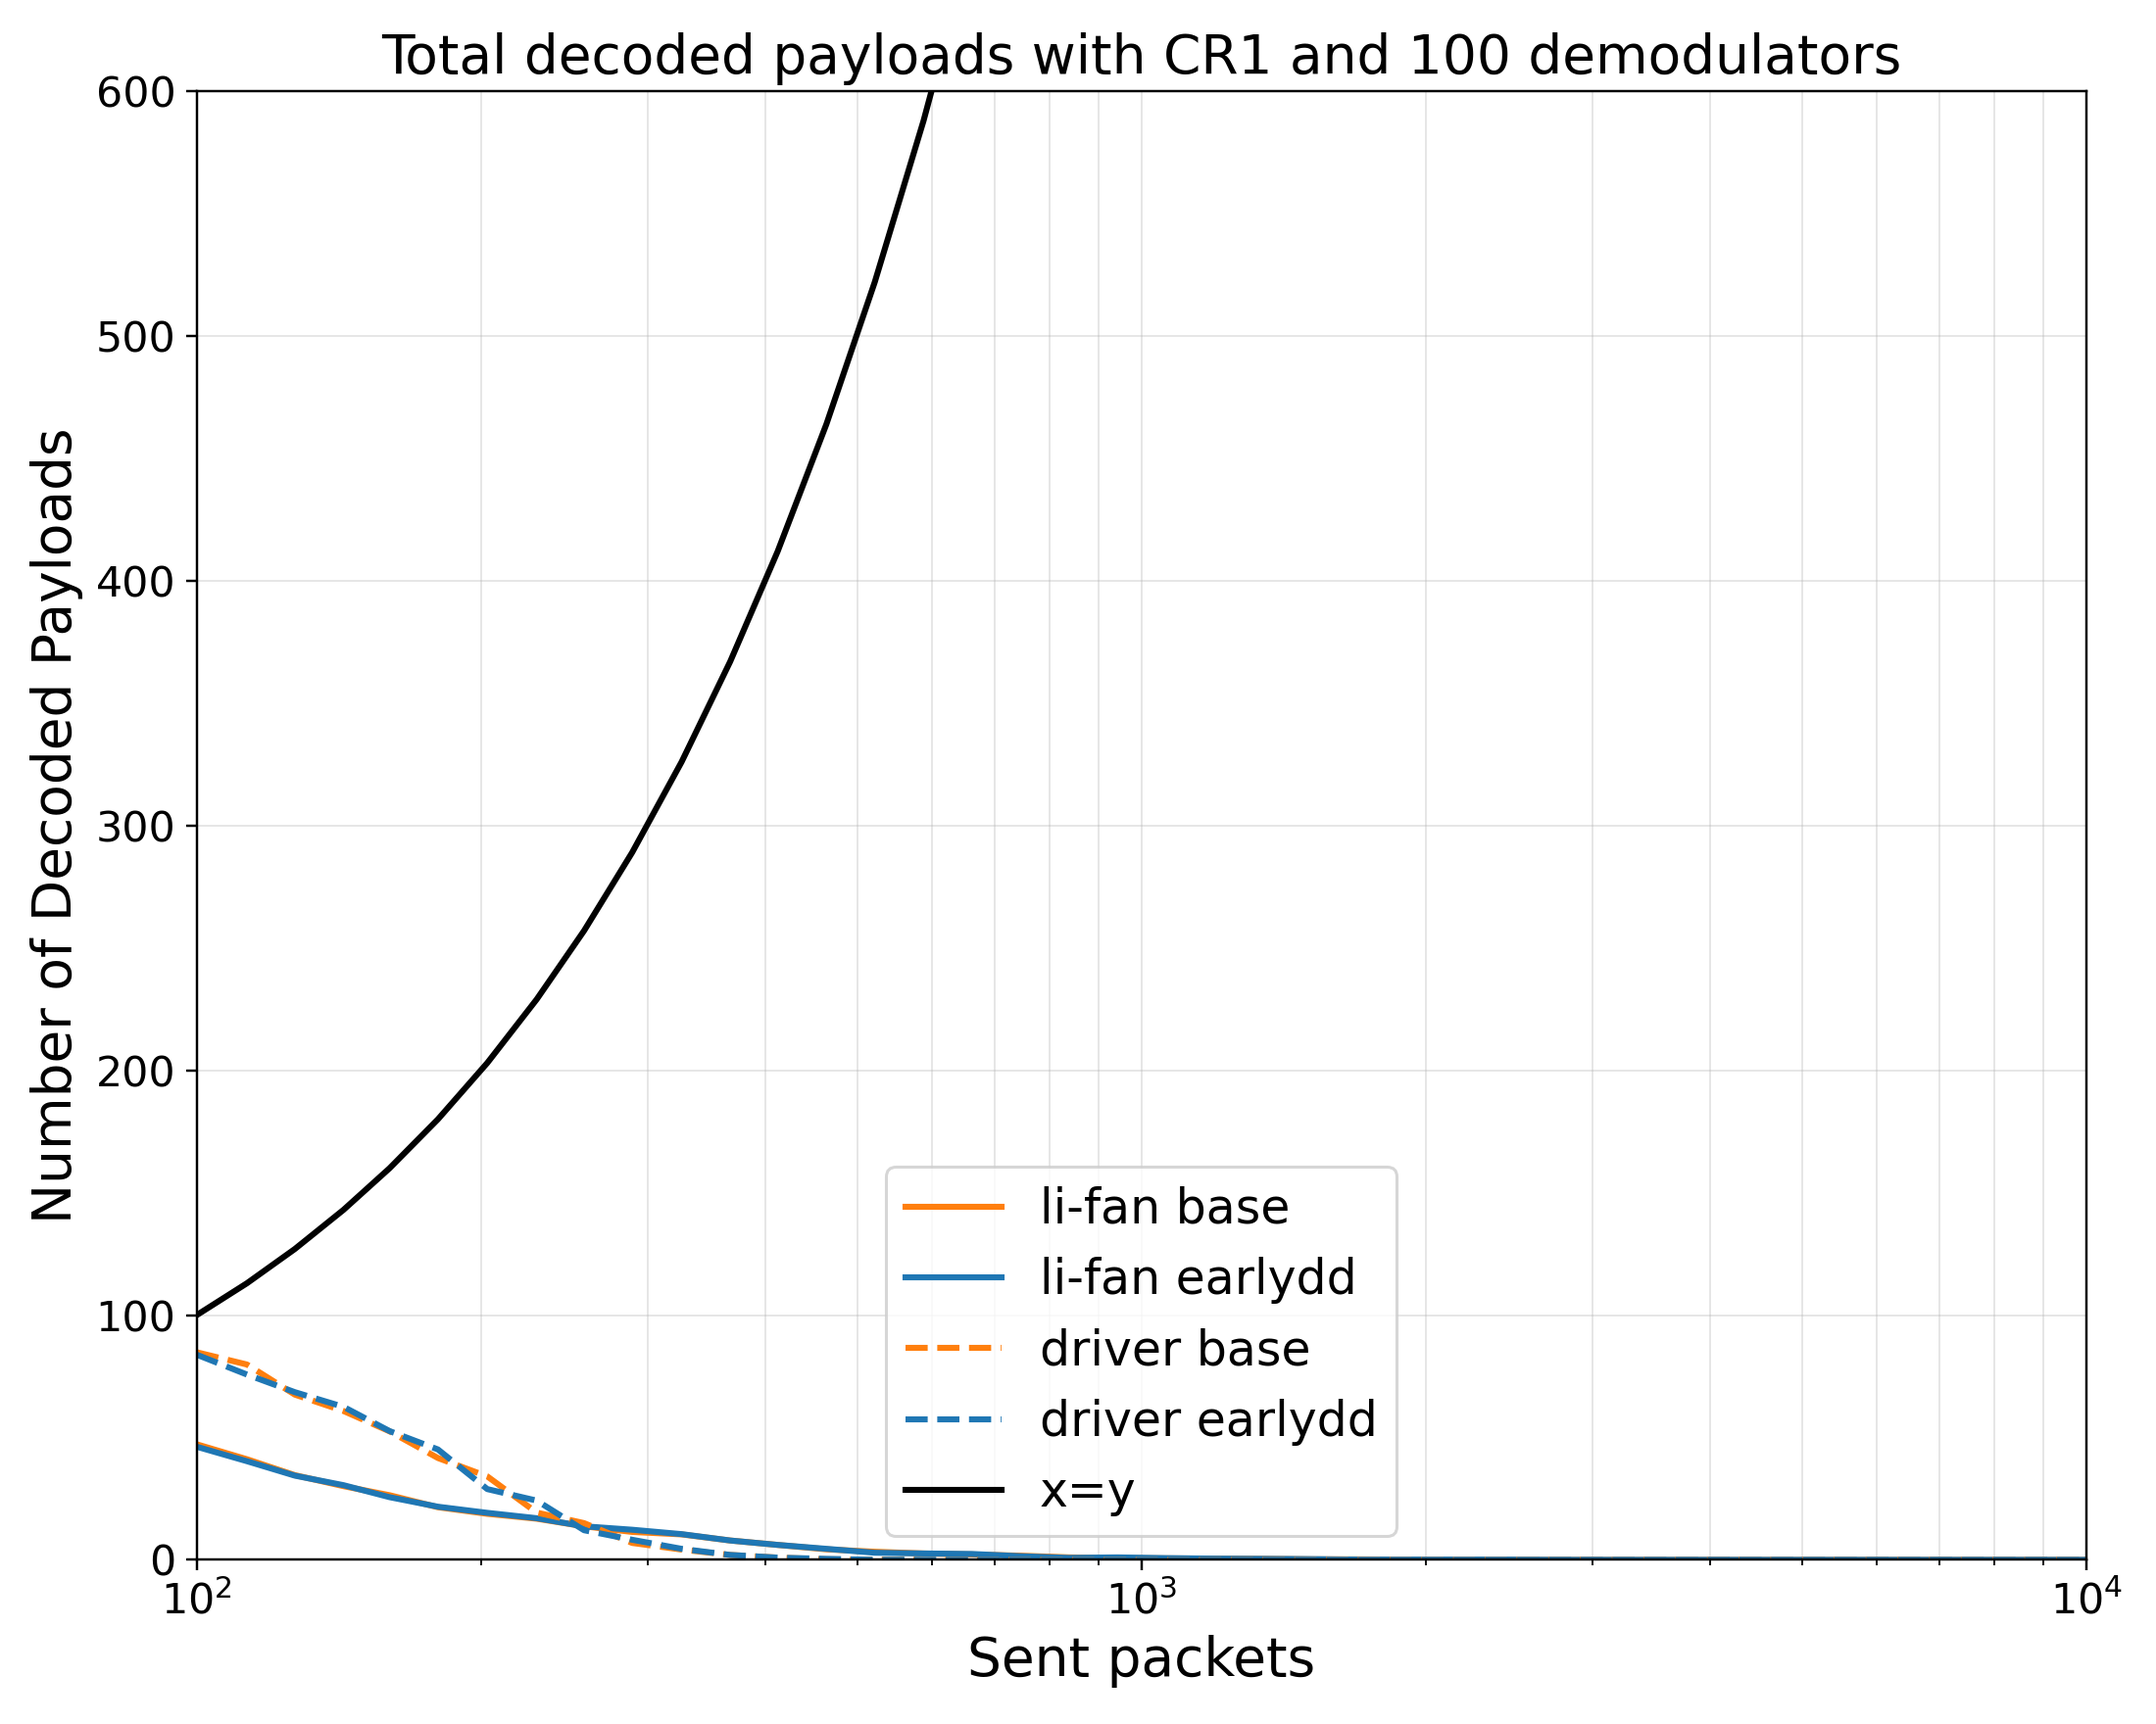
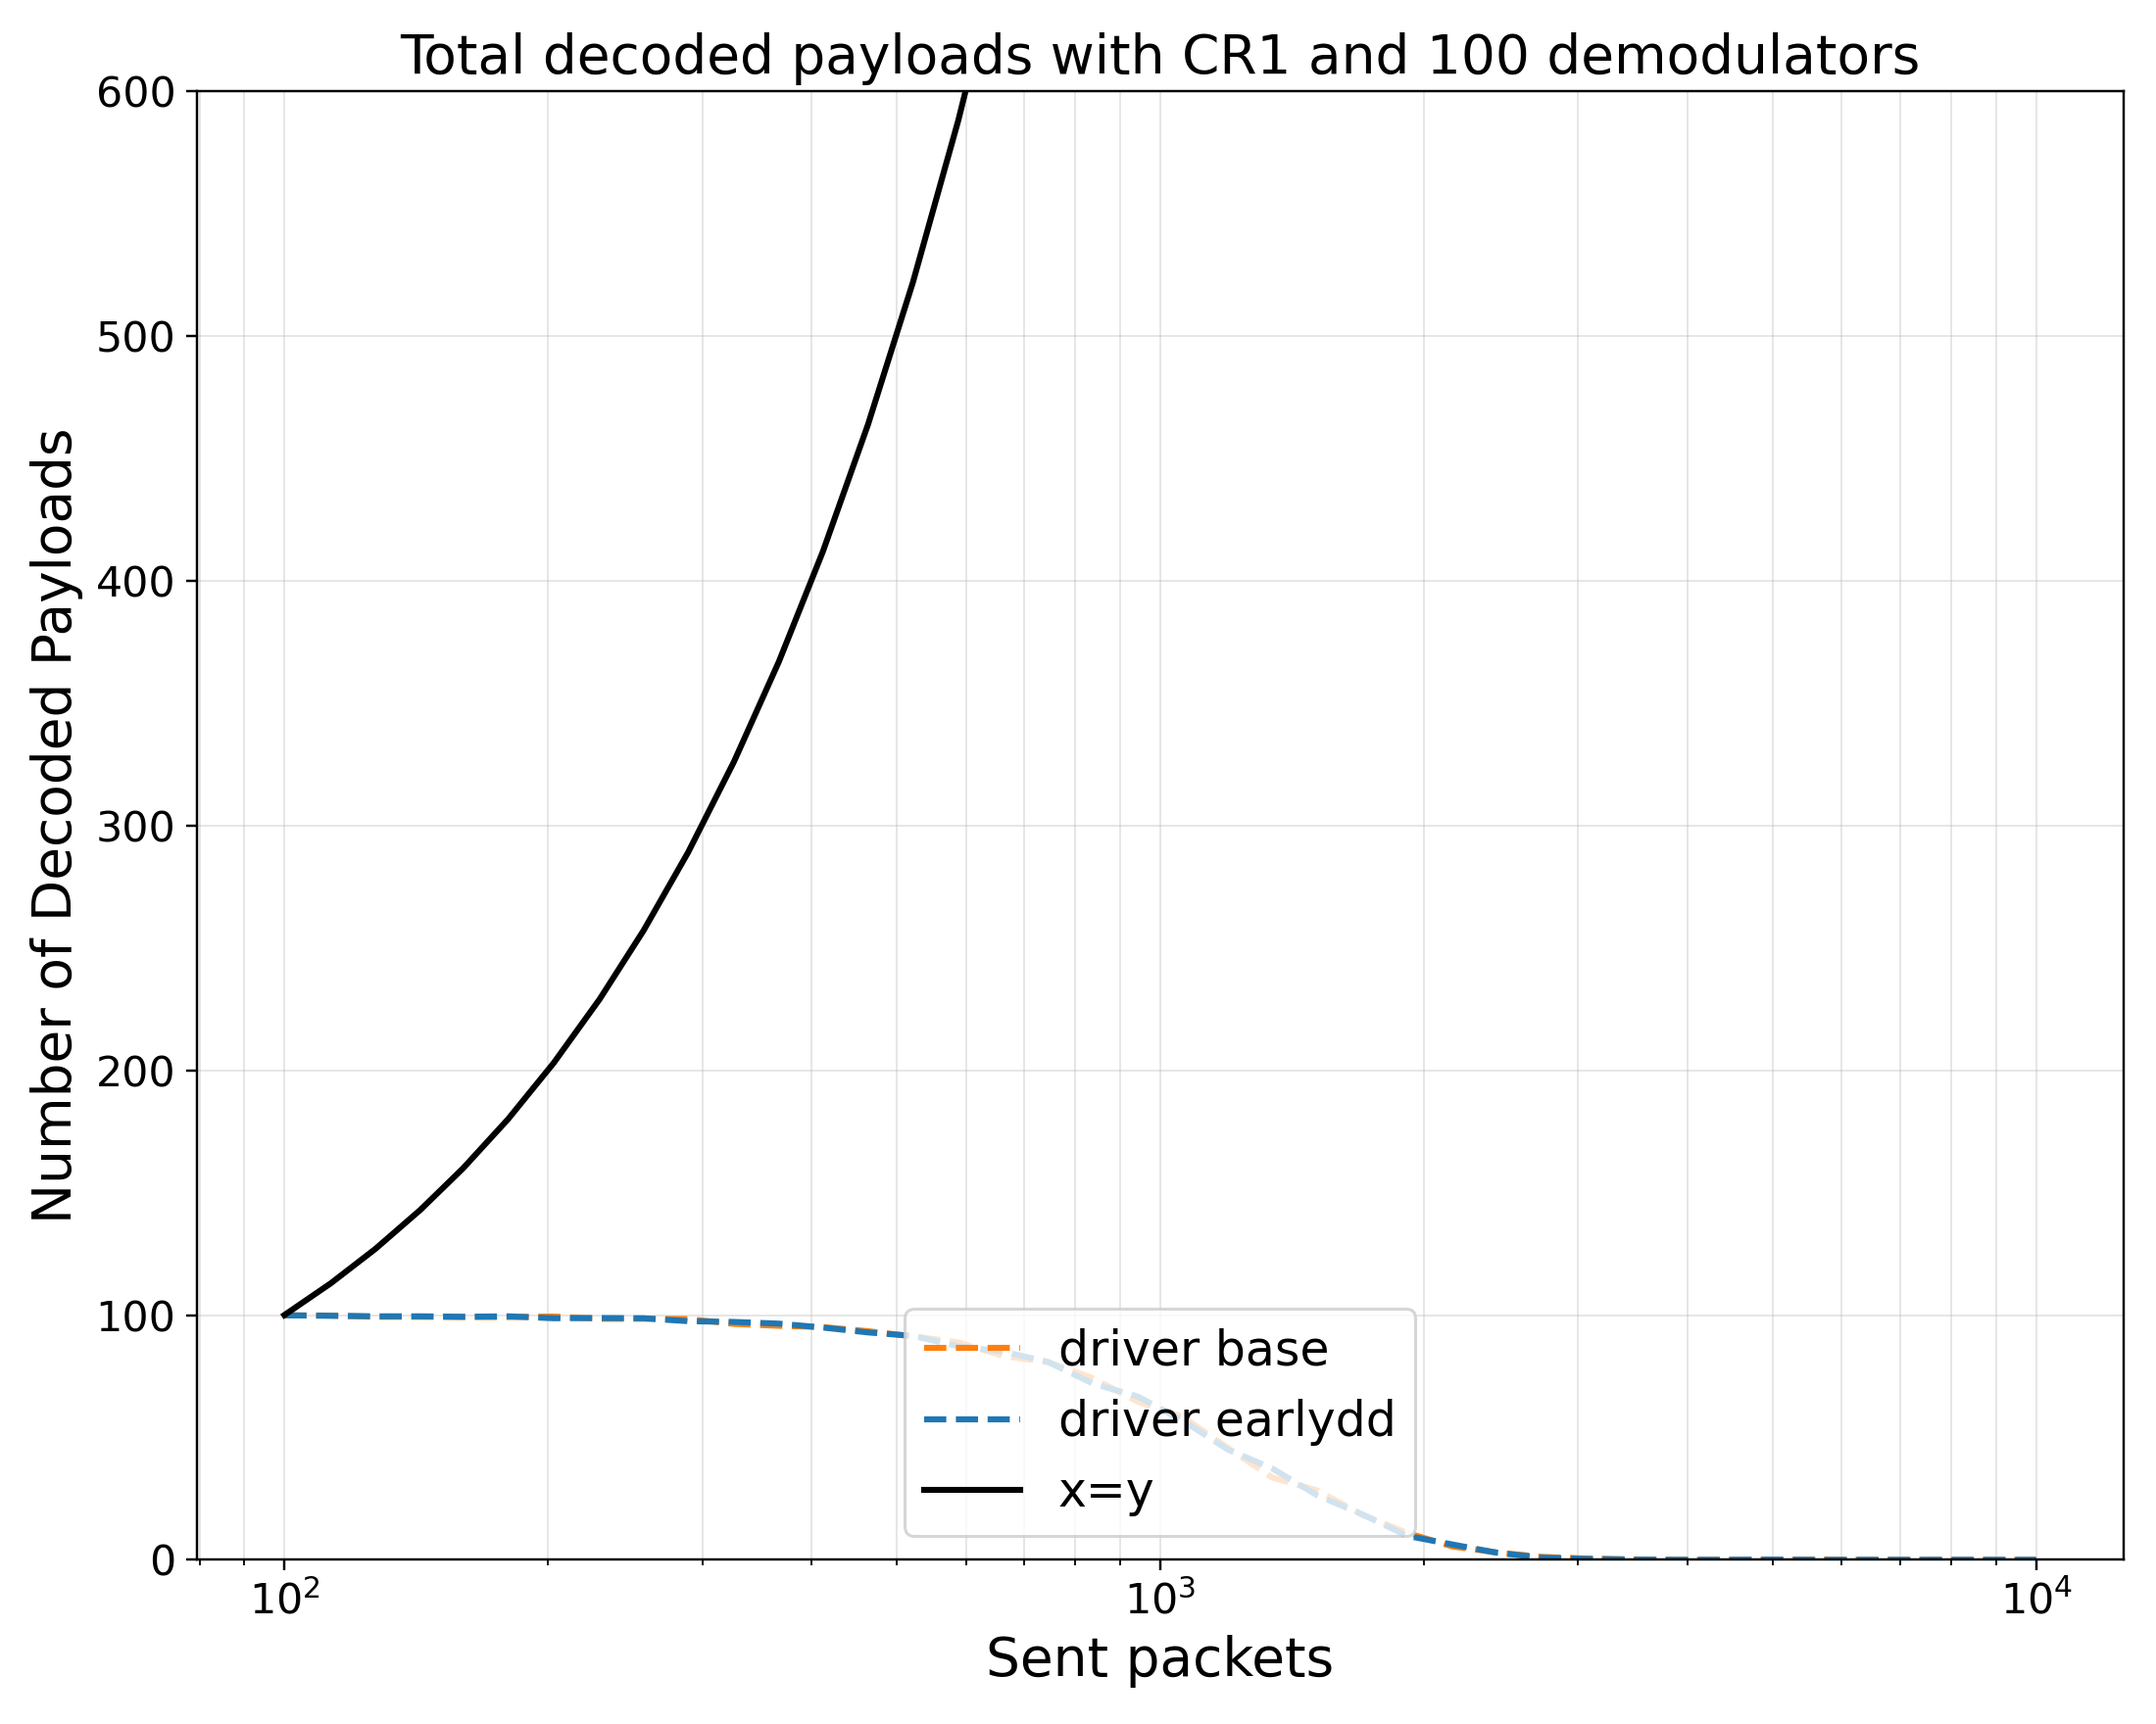
modify output name

diff --git a/workflow_tasks/lrfhss_communication.py b/workflow_tasks/lrfhss_communication.py
@@ -9,12 +9,16 @@ import re
 import sys
 import numpy as np
 
+
+
+
 _INTEGRATION_ROOT = Path(__file__).resolve().parents[1]
 _DEFAULT_LRFHSS_ROOT = _INTEGRATION_ROOT / "LRFHSS"
 if str(_DEFAULT_LRFHSS_ROOT.resolve()) not in sys.path:
     sys.path.insert(0, str(_DEFAULT_LRFHSS_ROOT.resolve()))
 
-from LRFHSS import LRFHSS_simulator as sim
+import LRFHSS_simulator as sim
+from base.base import CR, runs, numDecoders, use_earlydrop, use_headerdrop
 
 try:
     import matplotlib
@@ -44,6 +48,14 @@ def _ensure_lrfhss_path(lrfhss_root: Path) -> None:
         sys.path.insert(0, root)
 
 
+def _default_drop_mode_from_base() -> str:
+    if bool(use_headerdrop):
+        return "hdrdd"
+    if bool(use_earlydrop):
+        return "rlydd"
+    return "base"
+
+
 def generate_reference_csv_from_simulation(
     lrfhss_root: Path,
     output_csv: Path,
@@ -57,7 +69,7 @@ def generate_reference_csv_from_simulation(
     node_max: float | None,
     selected_nodes: list[float] | None,
     node_points: int = 40,
-    runs_per_node: int = 10,
+    runs_per_node: int = runs,
     inf_demods: int | None = None,
 ) -> Path:
     _ensure_lrfhss_path(lrfhss_root)
@@ -285,8 +297,8 @@ def run_reference_comparison(
     generate_csv_from_simulation: bool = True,
     generated_csv: Path | None = None,
     sim_node_points: int = 40,
-    runs_per_node: int = 10,
-    inf_demods: int = 5000,
+    runs_per_node: int = runs,
+    inf_demods: int | None = None,
     demods: int = 100,
     coding_rate: int = 1,
     metric: str = "dec_payld",
@@ -300,6 +312,7 @@ def run_reference_comparison(
     node_max: float | None = 10000.0,
     selected_nodes: list[float] | None = None,
     export_pdf: bool = False,
+    output_tag: str | None = None,
 ) -> tuple[Path, Path]:
     if generate_csv_from_simulation:
         if lrfhss_root is None:
@@ -321,8 +334,7 @@ def run_reference_comparison(
             runs_per_node=runs_per_node,
             inf_demods=inf_demods,
         )
-        print(f"[lrfhss] Generated simulation CSV: {reference_csv.resolve()}")
-
+    
     if reference_csv is None:
         raise ValueError("reference_csv must be provided when generate_csv_from_simulation=False")
 
@@ -338,7 +350,7 @@ def run_reference_comparison(
         node_max=node_max,
         selected_nodes=selected_nodes,
     )
-    base_stem = f"lrfhss_demod_{int(demods)}"
+    base_stem = f"lrfhss_cr{int(coding_rate)}_{int(demods)}"
     name_parts = [base_stem]
     if metric == "dec_pckts":
         name_parts.append("packet_only")
@@ -346,6 +358,8 @@ def run_reference_comparison(
         name_parts.append("infp")
     if drop_mode in {"hdrdd", "headerdrop"}:
         name_parts.append("headerdrop")
+    if output_tag:
+        name_parts.append(str(output_tag))
     tagged_stem = "_".join(name_parts)
     out_png = output_dir / f"{tagged_stem}.png"
     out_pdf = output_dir / f"{tagged_stem}.pdf"
@@ -387,8 +401,8 @@ def parse_args() -> argparse.Namespace:
         help="Use --reference-csv directly instead of generating CSV from LR-FHSS simulation.",
     )
     parser.add_argument("--sim-node-points", type=int, default=40)
-    parser.add_argument("--runs-per-node", type=int, default=10)
-    parser.add_argument("--inf-demods", type=int, default=0)
+    parser.add_argument("--runs-per-node", type=int, default=runs)
+    parser.add_argument("--inf-demods", type=int, default=None)
     parser.add_argument(
         "--paper-cr1-figure",
         type=str,
@@ -399,13 +413,13 @@ def parse_args() -> argparse.Namespace:
             "9a (1000 demods, y<=2600), or both. Runs in lrfhss_communication."
         ),
     )
-    parser.add_argument("--demods", type=int, default=100)
-    parser.add_argument("--coding-rate", type=int, default=1)
+    parser.add_argument("--demods", type=int, default=numDecoders)
+    parser.add_argument("--coding-rate", type=int, default=CR)
     parser.add_argument("--metric", type=str, default="dec_payld")
     parser.add_argument(
         "--drop-mode",
         type=str,
-        default="rlydd",
+        default=_default_drop_mode_from_base(),
         choices=["rlydd", "headerdrop", "hdrdd"],
         help="Drop-policy curve key to compare against base. headerdrop maps to hdrdd key if available.",
     )
@@ -466,7 +480,7 @@ def main() -> None:
         for fig_id in preset_targets:
             fig_demods = 100 if fig_id == "8a" else 1000
             fig_ymax = 600.0 if fig_id == "8a" else 2600.0
-            fig_generated_csv = args.output_dir / f"lrfhss_sim_fig{fig_id}_cr1.csv"
+            fig_generated_csv = args.output_dir / f"lrfhss_sim_fig{fig_id}_cr1_{fig_demods}.csv"
 
             out_png, out_pdf = run_reference_comparison(
                 reference_csv=args.reference_csv,
@@ -484,18 +498,18 @@ def main() -> None:
                 y_max=fig_ymax,
                 x_min=100.0,
                 x_max=10000.0,
-                include_lifan=True,
+                include_lifan=args.include_lifan,
                 include_infp=False,
                 node_min=100.0,
                 node_max=10000.0,
                 selected_nodes=None,
                 export_pdf=args.export_pdf,
+                output_tag=f"fig{fig_id}",
             )
             print(f"[paper CR1 fig{fig_id}] Saved plot: {out_png.resolve()}")
             if not args.use_existing_csv:
                 print(f"[paper CR1 fig{fig_id}] Generated CSV: {fig_generated_csv.resolve()}")
-            if args.export_pdf:
-                print(f"[paper CR1 fig{fig_id}] Saved plot: {out_pdf.resolve()}")
+           
         return
 
     out_png, out_pdf = run_reference_comparison(
@@ -521,12 +535,6 @@ def main() -> None:
         selected_nodes=args.nodes,
         export_pdf=args.export_pdf,
     )
-    print(f"Saved plot: {out_png.resolve()}")
-    if not args.use_existing_csv:
-        generated_csv = args.generated_csv if args.generated_csv is not None else args.output_dir / f"lrfhss_sim_cr{int(args.coding_rate)}.csv"
-        print(f"Generated CSV: {generated_csv.resolve()}")
-    if args.export_pdf:
-        print(f"Saved plot: {out_pdf.resolve()}")
 
 
 if __name__ == "__main__":

diff --git a/LRFHSS/LRFHSS_simulator.py b/LRFHSS/LRFHSS_simulator.py
@@ -100,7 +100,10 @@ def run_sim(
 
     local_runs = max(1, int(runs if runs_per_node is None else runs_per_node))
     vals: list[float] = []
-    for r in range(local_runs):
+    run_iter = range(local_runs)
+    if tqdm is not None and local_runs > 1:
+        run_iter = tqdm(run_iter, desc=f"Running simulations for {local_runs} runs", leave=False)
+    for r in run_iter:
         random.seed(2 * r)
         network.get_predecoded_data()
         network.run(power, dynamic)
@@ -108,6 +111,12 @@ def run_sim(
         network.restart()
     return float(np.mean(np.array(vals, dtype=float)))
 
+    # vals: list[float] = []
+    # network.get_predecoded_data()
+    # network.run(power, dynamic)
+    # vals.append(_metric_from_network(network, metric=metric))
+    # network.restart()
+    # return float(vals[0])
 
 def runsim2csv(
     num_decoders: int,
@@ -143,7 +152,10 @@ def runsim2csv(
     rows.append(("nodes", node_vals))
     rows.append(("x_equals_y", node_vals))
 
-    for family in families:
+    family_iter = families
+    if tqdm is not None:
+        family_iter = tqdm(families, desc=f"Processing families demods {int(num_decoders)}", leave=False)
+    for family in family_iter:
         base_vals: list[float] = []
         dd_vals: list[float] = []
         inf_vals: list[float] = []
@@ -217,7 +229,5 @@ def runsim2csv(
     with out.open("w", newline="", encoding="utf-8") as f:
         writer = csv.writer(f)
         for key, vals in rows:
-            writer.writerow([key] + [f"{float(v):.6f}" for v in vals])
-    print(f"Saved: {out}")
+            writer.writerow([key] + [f"{float(v if v is not None else 0):.6f}" for v in vals])
     return out
-

diff --git a/LRFHSS/base/base.py b/LRFHSS/base/base.py
@@ -26,13 +26,13 @@ MAX_FRM_TM  =  MAX_HDRS*HDR_TIME + MAX_FRGS*FRG_TIME  # maximum lr-fhss frame ti
 
 # Simulation Parameters
 runs                = 10                   # number of repetitions
-simTime             = 500                  # simulation time in timeslots
-numOCW              = 1                    # number of OCW channels
+simTime             = 912                  # simulation time in timeslots
+numOCW              = 7                    # number of OCW channels
 numOBW              = 280                  # number of OBW channels
 numGrids            = 8                    # number of grids
 timeGranularity     = 6                    # number of timeslots per LRFHSS fragment 
 freqGranularity     = 25                   # number of frequency slots per OBW channel
-numDecoders         = 800                  # number of decoders available at gateway
+numDecoders         = 100                  # number of decoders available at gateway
 CR                  = 1                    # coding rate, CR=1 for 1/3 and CR=2 for 2/3
 use_earlydecode     = True                 # early decode mechanisms flag
 use_earlydrop       = True                 # early drop mechanisms flag

diff --git a/replicate_paper.py b/replicate_paper.py
@@ -25,10 +25,10 @@ def parse_args() -> argparse.Namespace:
         help="Replication method to run.",
     )
     parser.add_argument("--seed", type=int, default=42)
-    parser.add_argument("--output-root", type=Path, default=integration_root / "results" / "paper_replication")
+    parser.add_argument("--output-root", type=Path, default=integration_root / "results")
 
     parser.add_argument("--multi-beam-root", type=Path, default=snt_root / "Multi-Beam-LEO-Framework")
-    parser.add_argument("--lrfhss-root", type=Path, default=snt_root / "lr-fhss_seq-families")
+    parser.add_argument("--lrfhss-root", type=Path, default=integration_root / "LRFHSS")
 
     parser.add_argument("--demods", type=int, default=100)
     parser.add_argument("--coding-rate", type=int, default=1)
